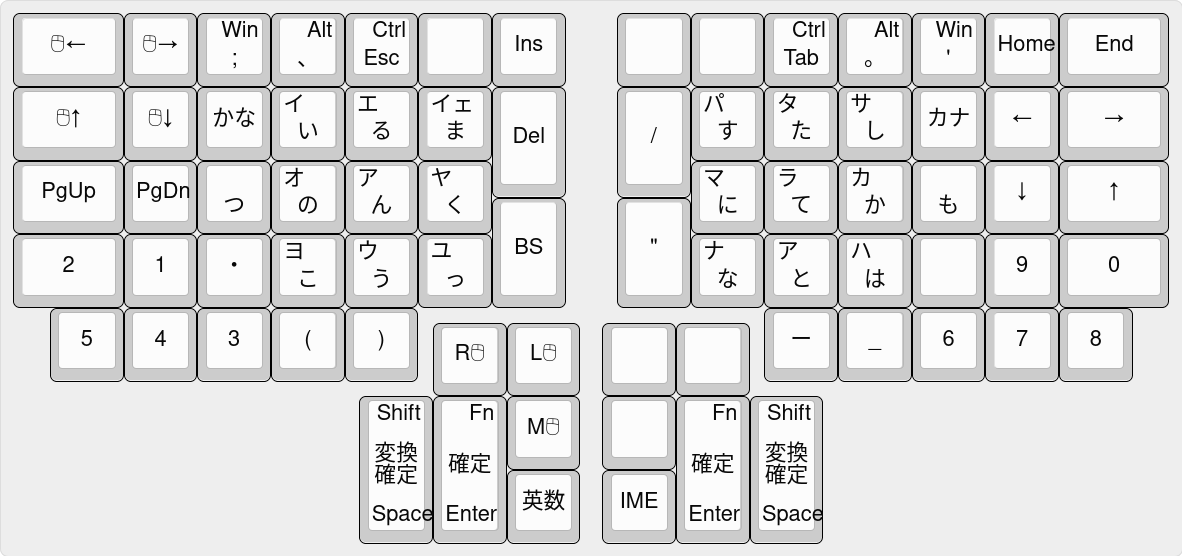
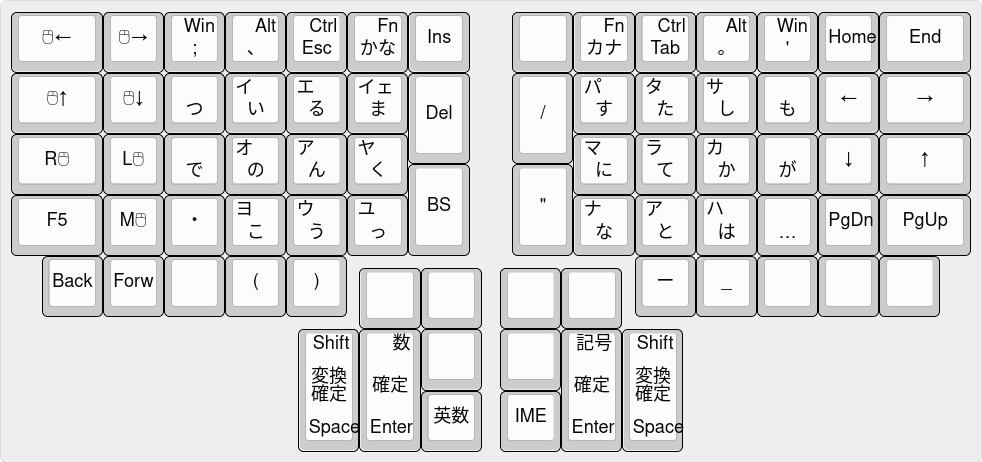
update readme

diff --git a/my.c b/my.c
@@ -296,14 +296,14 @@ const uint16_t PROGMEM keymaps[][MATRIX_ROWS][MATRIX_COLS] = {
 	[L_FN] = LAYOUT_ergodox(
 		// left hand
 		KC_NO, KC_NO, KC_LGUI, KC_LALT, KC_LCTL, KC_TRNS, KC_NO,
-		KC_NO, KC_SLCK, KC_NO, KC_MHEN, KC_HENK, KC_KANA, KC_TRNS,
-		KC_NO, KC_NO, KC_NO, KC_NO, KC_PSCR, KC_NO,
-		KC_APP, KC_NO, KC_NO, KC_NO, KC_NO, KC_PAUS, KC_TRNS,
+		KC_NO, KC_SLCK, KC_KANA, KC_MHEN, KC_HENK, KC_NO, KC_TRNS,
+		KC_APP, KC_NO, KC_NO, KC_NO, KC_PSCR, KC_NO,
+		KC_NO, KC_NO, KC_NO, KC_NO, KC_NO, KC_PAUS, KC_TRNS,
 		KC_NO, KC_NO, KC_NO, KC_NO, KC_NO,
 		// thumb
 		KC_TRNS, KC_TRNS,
 		KC_TRNS,
-		KC_TRNS, KC_TRNS, KC_TRNS,
+		KC_LSFT, KC_TRNS, KC_TRNS,
 		// right hand
 		KC_TRNS, KC_TRNS, RCTL_T(KC_F7), RALT_T(KC_F8), RGUI_T(KC_F9), KC_MPRV, KC_MNXT,
 		KC_TRNS, KC_NO, KC_F4, KC_F5, KC_F6, KC_MUTE, KC_MPLY,

diff --git a/README.md b/README.md
@@ -4,64 +4,18 @@ English|[日本語](README.ja.md)
 ## Install
 1. clone [qmk_firmware][qmk]
 2. clone this repository in `qmk_firmware/layouts/community/ergodox`
-3. run `sh write.sh`
+3. setup qmk environment ([official doc](https://docs.qmk.fm/#/newbs_getting_started?id=set-up-your-environment))
+3. then build and flash ([official doc](https://docs.qmk.fm/#/newbs_building_firmware?id=build-your-firmware))
 
 ## Base
 ![ascii layout](img/ascii-layout.png)
-<!--
-```
- ------------------------------                     ------------------------------
-| Prnt | $ | % | ! | @ | # |   |                   | { | * | ( | ) | ^ | & |Clear |
-|  Scr | 4 | 5 | 1 | 2 | 3 |Ins|                   | { | 8 | 9 | 0 | 6 | 7 |      |
-|      | Fn|Win|Alt|Ctl|   |   |                   |   |   |Ctl|Alt|Win|Fn |      |
-|------------------------------|                   |------------------------------|
-|   |  | Q | V | R | N | B | + |                   | } | > | U | O | _ | " |  ~   |
-|   \  |   |   |   |   |   | = |                   | ] | . |   |   | - | ' |  `   |
-|--------------------------|   |                   |   |--------------------------|
-|   ?  | W | F | T | S | L |___|                   |___| < | I | A | P | G |  :   |
-|   /  |   |   |   |   |   |   |                   |   | , |   |   |   |   |  ;   |
-|--------------------------|BS |                   |Del|--------------------------|
-| Caps | J | X | C | H | M |   |                   |   | Y | E | D | K | Z | Caps |
-|      |   |   |   |   |   |   | -------   ------- |   |   |   |   |   |   |      |
-------------------------------- | R | L | |Pg |Pg | ------------------------------
-   |   |   |Ho |Up |Dn |        |Btn|Btn| | Dn| Up|        |Le |Ri |End|   |   |
-   |   |   | me|   |   |     -----------| |-----------     | ft|ght|   |   |   |
-    -------------------     |Sft|   | M | |Ba |   |Sft|     -------------------
-                            |   |   |Btn| | ck|   |   |
-                            | S | E |---| |---| T | S |
-                            | p | n |Esc| |IME| a | p |
-                            | c | t |   | |TGL| b | c |
-                             -----------   -----------
-```
--->
+
+## Num,Sign Layer
+![num sign layout](img/num-sign-layout.png)
 
 ## Fn layer
 ![fn-layout](img/fn-layout.png)
-<!--
-```
- ------------------------------                     ------------------------------
-|      |   |   |   |   |   |   |                   |   |   |   |   |   |   |      |
-|      |F4 |F5 |F1 |F2 |F3 |   |                   |   |F8 |F9 |F10|F6 |F7 |      |
-|------------------------------|                   |------------------------------|
-|      |   |   |   |   |   |   |                   |   |   |   |   |   |   |      |
-|      |   |   |F11|F12|   |   |                   |   |   |   |   |   |   |      |
-|--------------------------|   |                   |   |--------------------------|
-|      |   |Mu |Vol|Vol|Ply|___|                   |___|   |   |Scr|Pau|   |      |
-|      |   | te| Dn| Up|Stp|   |                   |   |   |App|Lck| se|   |      |
-|--------------------------|   |                   |   |--------------------------|
-|      |   |   |   |   |   |   |                   |   |   |   |   |   |   |      |
-|      |   |   |   |   |   |   | -------   ------- |   |   |   |   |   |   |      |
-------------------------------- |   |   | |   |   | ------------------------------
-   |   |   |   |   |   |        |   |   | |   |   |        |   |   |   |   |   |
-   |   |   |   |   |   |     -----------| |-----------     |   |   |   |   |   |
-   |   |   |Win|Ctl|Alt|    |Sft|   |   | |   |   |Sft|    |Alt|Ctl|Win|   |   |
-    -------------------     |   |   |   | |   |   |   |     -------------------
-                            | S | E |---| |---| T | S |
-                            | p | n |   | |   | a | p |
-                            | c | t |   | |   | b | c |
-                             -----------   -----------
-```
--->
+
 <!--
 ## Simultaneous Modifier
 simultaneous tapping version of MOD-TAP.

diff --git a/README.ja.md b/README.ja.md
@@ -1,13 +1,19 @@
 # qmk firmware用キーマップ
 [English](README.md)|日本語
 
+[ブログ記事][blog]により詳しく書いています。
+
 ## インストール
 1. [qmk_firmware][qmk] をクローン
 2. このリポジトリを `qmk_firmware/layouts/community/ergodox` にクローン
-3. `sh write.sh`を実行
+3. QMKのビルド環境を構築する([公式ドキュメント](https://docs.qmk.fm/#/ja/newbs_getting_started?id=set-up-your-environment))
+4. ビルドしてキーボードに書き込む([公式ドキュメント](https://docs.qmk.fm/#/ja/newbs_building_firmware?id=build-your-firmware))
 
-## 英数面
+## 英語
 ![ascii layout](img/ascii-layout.png)
+
+## 数字、記号レイヤー
+![num sign layout](img/num-sign-layout.png)
 
 ## Fnレイヤー
 ![fn layout](img/fn-layout.png)
@@ -41,4 +47,5 @@ Pauseキーに割り当てています。
 |に    |マ    |      |        |          |
 |て    |ラ    |      |ティ    |ディ      |
 
-[qmk]: https://github.com/qmk/qmk_firmware
+[qmk]:https://github.com/qmk/qmk_firmware
+[blog]:https://hkmtyh.com/computer/keyboard/layout/tyoki-chord/
